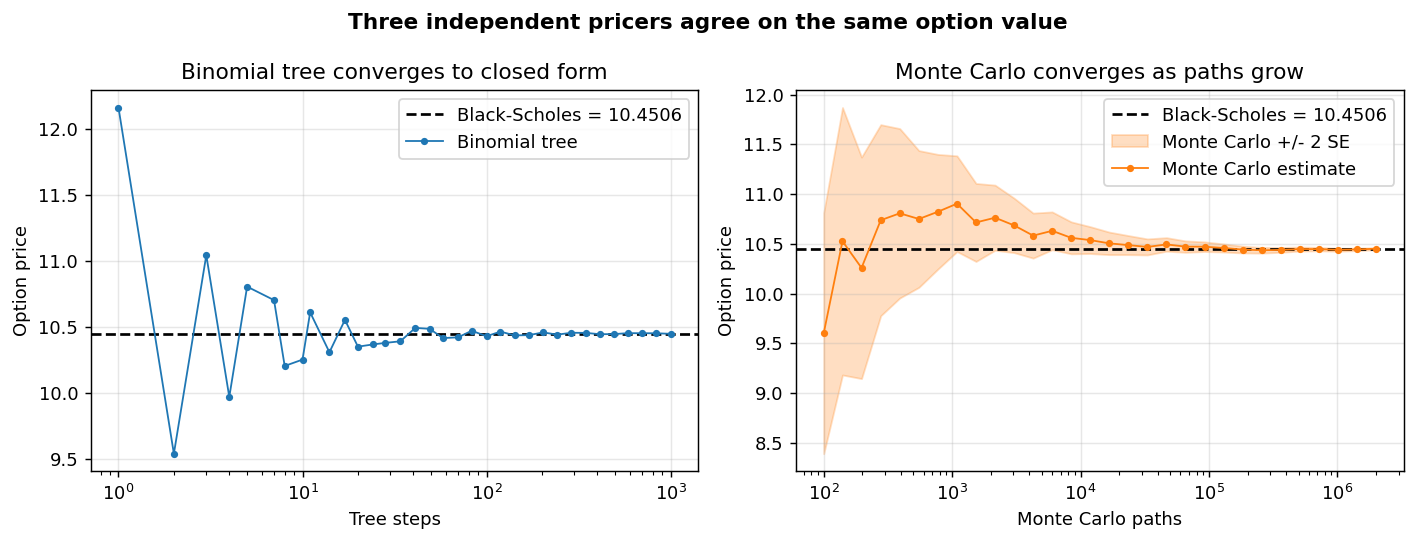
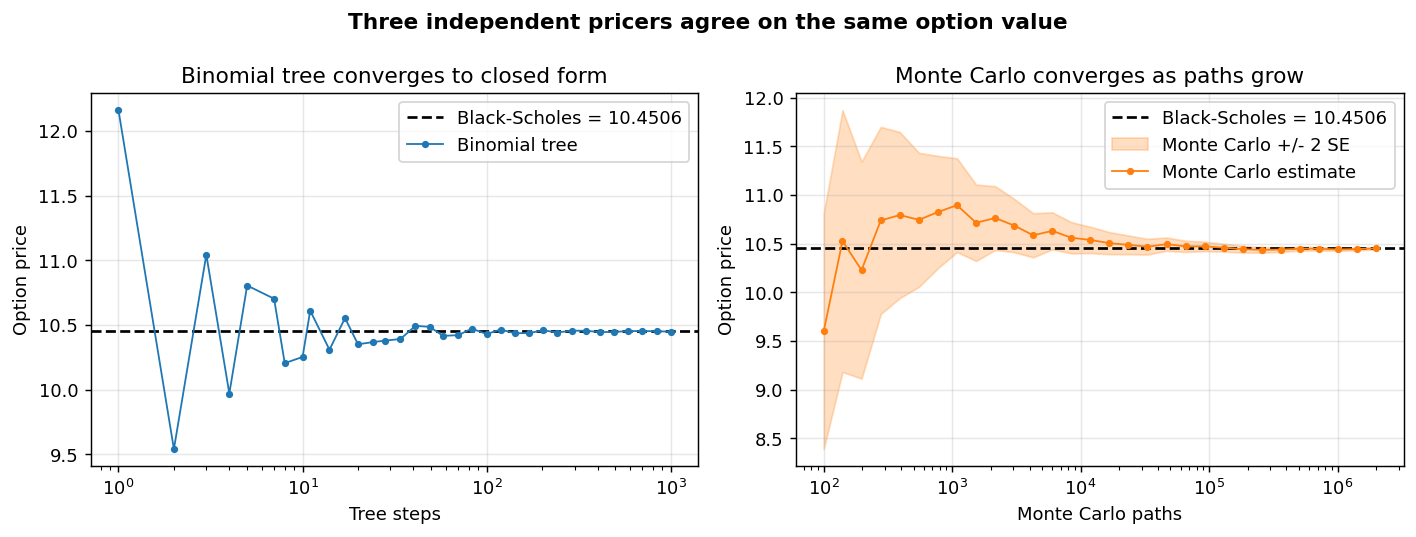
Add implied-volatility silver and latency benchmark

diff --git a/bench/benchmark.cpp b/bench/benchmark.cpp
@@ -1,0 +1,76 @@
+// Latency benchmark for the three pricers. Build in Release (-O3) for
+// meaningful numbers, then run the executable directly. Results vary by
+// machine; this backs the "fast pricing" claim with a real figure.
+#include <chrono>
+#include <cstdio>
+#include <initializer_list>
+
+#include "ope/binomial.hpp"
+#include "ope/black_scholes.hpp"
+#include "ope/implied_vol.hpp"
+#include "ope/monte_carlo.hpp"
+
+using clk = std::chrono::high_resolution_clock;
+
+int main() {
+    using namespace ope;
+    const BSInputs in{100, 100, 0.05, 0.0, 0.20, 1.0, OptionType::Call};
+
+    std::printf("Benchmark (single thread)\n");
+    std::printf("-------------------------\n");
+
+    // Black-Scholes: price + all five Greeks. `volatile` sink stops the
+    // optimiser from deleting the loop.
+    {
+        const int N = 5'000'000;
+        volatile double sink = 0.0;
+        const auto t0 = clk::now();
+        for (int i = 0; i < N; ++i) {
+            const Greeks g = black_scholes(in);
+            sink += g.price + g.delta + g.gamma + g.vega + g.theta + g.rho;
+        }
+        const auto t1 = clk::now();
+        const double ns = std::chrono::duration<double, std::nano>(t1 - t0).count() / N;
+        std::printf("Black-Scholes price + 5 Greeks : %8.1f ns/call  (%6.1f M/sec)\n",
+                    ns, 1e3 / ns);
+        (void)sink;
+    }
+
+    // Implied volatility (Newton + bisection safeguard).
+    {
+        const double mkt = black_scholes(in).price;  // recover 20% vol
+        const int N = 1'000'000;
+        volatile double sink = 0.0;
+        const auto t0 = clk::now();
+        for (int i = 0; i < N; ++i) sink += implied_vol(in, mkt).vol;
+        const auto t1 = clk::now();
+        const double ns = std::chrono::duration<double, std::nano>(t1 - t0).count() / N;
+        std::printf("Implied volatility solve       : %8.1f ns/call  (%6.1f M/sec)\n",
+                    ns, 1e3 / ns);
+        (void)sink;
+    }
+
+    // Binomial tree (American), a few step counts.
+    for (int steps : {100, 500, 1000}) {
+        const int N = 2000;
+        volatile double sink = 0.0;
+        const auto t0 = clk::now();
+        for (int i = 0; i < N; ++i) sink += binomial_price(in, steps, Exercise::American);
+        const auto t1 = clk::now();
+        const double us = std::chrono::duration<double, std::micro>(t1 - t0).count() / N;
+        std::printf("Binomial tree (American, %4d)  : %8.2f us/call\n", steps, us);
+        (void)sink;
+    }
+
+    // Monte Carlo, two path counts.
+    for (long paths : {100'000L, 1'000'000L}) {
+        const auto t0 = clk::now();
+        const MCResult r = monte_carlo_price(in, paths, true, 1);
+        const auto t1 = clk::now();
+        const double ms = std::chrono::duration<double, std::milli>(t1 - t0).count();
+        std::printf("Monte Carlo (%8ld paths)   : %8.2f ms     -> %.4f +/- %.4f\n",
+                    paths, ms, r.price, r.std_error);
+    }
+
+    return 0;
+}

diff --git a/src/implied_vol.cpp b/src/implied_vol.cpp
@@ -1,0 +1,70 @@
+#include "ope/implied_vol.hpp"
+
+#include <cmath>
+#include <limits>
+#include <numbers>
+
+#include "ope/black_scholes.hpp"
+
+namespace ope {
+
+IVResult implied_vol(const BSInputs& in, double market_price, double tol,
+                     int max_iter) {
+    const double nan = std::numeric_limits<double>::quiet_NaN();
+
+    if (in.maturity <= 0.0) {
+        return IVResult{nan, 0, false};
+    }
+
+    // Volatility is bounded to a wide but finite bracket: 0.0001% to 500%.
+    double lo = 1e-6;
+    double hi = 5.0;
+
+    BSInputs probe = in;  // we vary only the volatility
+    auto price_at = [&](double v) {
+        probe.vol = v;
+        return black_scholes(probe).price;
+    };
+
+    // Black-Scholes price is strictly increasing in volatility, so if the
+    // market price lies outside [price(lo), price(hi)] there is no solution
+    // (e.g. a quote below intrinsic value -> arbitrage).
+    if (market_price <= price_at(lo) || market_price >= price_at(hi)) {
+        return IVResult{nan, 0, false};
+    }
+
+    // Brenner-Subrahmanyam closed-form approximation as the initial guess
+    // (exact for at-the-money options, a good start elsewhere).
+    double v = std::sqrt(2.0 * std::numbers::pi / in.maturity) *
+               market_price / in.spot;
+    if (!(v > lo && v < hi)) {
+        v = 0.5 * (lo + hi);
+    }
+
+    for (int i = 1; i <= max_iter; ++i) {
+        probe.vol = v;
+        const Greeks g = black_scholes(probe);
+        const double diff = g.price - market_price;
+
+        if (std::fabs(diff) < tol) {
+            return IVResult{v, i, true};
+        }
+
+        // Keep the root bracketed: price increasing in vol, so a price that is
+        // too high means vol is too high.
+        if (diff > 0.0) hi = v; else lo = v;
+
+        // Newton step, safeguarded: fall back to bisection if vega is tiny or
+        // the Newton step would jump outside the current bracket.
+        const double v_newton = v - diff / g.vega;
+        if (!(g.vega > 1e-10) || v_newton <= lo || v_newton >= hi) {
+            v = 0.5 * (lo + hi);
+        } else {
+            v = v_newton;
+        }
+    }
+
+    return IVResult{v, max_iter, false};
+}
+
+}  // namespace ope

diff --git a/tests/test_implied_vol.cpp b/tests/test_implied_vol.cpp
@@ -1,0 +1,63 @@
+// Implied-vol solver tests: recovering a known vol from its price, across a
+// grid of strikes and vols, plus the no-solution edge case.
+#include <algorithm>
+#include <cmath>
+#include <cstdio>
+#include <cstdlib>
+#include <initializer_list>
+
+#include "ope/black_scholes.hpp"
+#include "ope/implied_vol.hpp"
+
+static int g_failures = 0;
+
+static void check(const char* name, bool ok, const char* detail) {
+    if (ok) {
+        std::printf("  ok    %-38s %s\n", name, detail);
+    } else {
+        std::printf("  FAIL  %-38s %s\n", name, detail);
+        ++g_failures;
+    }
+}
+
+int main() {
+    using namespace ope;
+    char buf[256];
+
+    // Round-trip: price an option at a known vol, then recover that vol from
+    // the price. Sweep strikes (ITM/ATM/OTM) and several true vols.
+    double worst = 0.0;
+    int worst_iters = 0;
+    for (double K : {70.0, 90.0, 100.0, 110.0, 140.0}) {
+        for (double true_vol : {0.10, 0.20, 0.35, 0.60}) {
+            for (OptionType t : {OptionType::Call, OptionType::Put}) {
+                BSInputs in{100, K, 0.05, 0.0, true_vol, 1.0, t};
+                const double mkt = black_scholes(in).price;
+                const IVResult iv = implied_vol(in, mkt);
+                if (iv.converged) {
+                    worst = std::max(worst, std::fabs(iv.vol - true_vol));
+                    worst_iters = std::max(worst_iters, iv.iterations);
+                } else {
+                    worst = 1e9;  // force a failure if anything did not converge
+                }
+            }
+        }
+    }
+    std::snprintf(buf, sizeof(buf), "max vol error=%.2e, max iters=%d", worst, worst_iters);
+    check("Round-trip recovers true vol", worst < 1e-6, buf);
+
+    // A price strictly below intrinsic value has no valid implied vol.
+    {
+        BSInputs in{100, 80, 0.05, 0.0, 0.20, 1.0, OptionType::Call};
+        const IVResult iv = implied_vol(in, 5.0);  // intrinsic ~ 20, so 5 is impossible
+        std::snprintf(buf, sizeof(buf), "converged=%d vol=%.4f", iv.converged, iv.vol);
+        check("Below-intrinsic price -> no solution", !iv.converged && std::isnan(iv.vol), buf);
+    }
+
+    if (g_failures == 0) {
+        std::printf("\nAll implied-vol tests passed.\n");
+        return EXIT_SUCCESS;
+    }
+    std::printf("\n%d test(s) FAILED.\n", g_failures);
+    return EXIT_FAILURE;
+}

diff --git a/include/ope/implied_vol.hpp b/include/ope/implied_vol.hpp
@@ -1,0 +1,21 @@
+#pragma once
+
+#include "ope/types.hpp"
+
+namespace ope {
+
+struct IVResult {
+    double vol;        // implied volatility (NaN if no solution exists)
+    int iterations;    // iterations used
+    bool converged;    // whether it reached the tolerance
+};
+
+// Recover the Black-Scholes implied volatility that reproduces `market_price`
+// for the given contract. Uses Newton-Raphson driven by vega, safeguarded by
+// a bisection step whenever Newton would leave the no-arbitrage bracket or
+// vega is too small to trust (deep in/out of the money). The `vol` field of
+// `in` is ignored; it is the unknown being solved for.
+IVResult implied_vol(const BSInputs& in, double market_price,
+                     double tol = 1e-8, int max_iter = 100);
+
+}  // namespace ope

diff --git a/bindings/bindings.cpp b/bindings/bindings.cpp
@@ -2,6 +2,7 @@
 
 #include "ope/binomial.hpp"
 #include "ope/black_scholes.hpp"
+#include "ope/implied_vol.hpp"
 #include "ope/monte_carlo.hpp"
 
 namespace py = pybind11;
@@ -70,4 +71,18 @@ PYBIND11_MODULE(ope, m) {
           py::arg("num_paths"), py::arg("antithetic") = true,
           py::arg("seed") = 42UL,
           "Monte Carlo price (European) with optional antithetic variates.");
+
+    py::class_<ope::IVResult>(m, "IVResult")
+        .def_readonly("vol", &ope::IVResult::vol)
+        .def_readonly("iterations", &ope::IVResult::iterations)
+        .def_readonly("converged", &ope::IVResult::converged)
+        .def("__repr__", [](const ope::IVResult& r) {
+            return "<IVResult vol=" + std::to_string(r.vol) +
+                   " iterations=" + std::to_string(r.iterations) +
+                   " converged=" + std::string(r.converged ? "True" : "False") + ">";
+        });
+
+    m.def("implied_vol", &ope::implied_vol, py::arg("inputs"),
+          py::arg("market_price"), py::arg("tol") = 1e-8, py::arg("max_iter") = 100,
+          "Solve for Black-Scholes implied volatility (safeguarded Newton).");
 }

diff --git a/README.md b/README.md
@@ -17,8 +17,10 @@ layer).
 | Binomial tree pricer (European + American) | done |
 | Monte Carlo pricer (antithetic variance reduction) | done |
 | Three-method convergence test | done |
-| Implied-volatility solver | planned |
-| Latency benchmarks + vol-surface plots | planned |
+| Implied-volatility solver (safeguarded Newton) | done |
+| Latency benchmark | done |
+| CI (GitHub Actions) | planned |
+| Volatility-surface plots | planned |
 
 ## The model
 
@@ -61,6 +63,35 @@ an American put is worth strictly more than the European put (the early-exercise
 premium), while an American call on a non-dividend stock equals the European
 call.
 
+## Implied volatility
+
+Given a market price, the engine solves for the volatility that reproduces it
+under Black-Scholes. The solver is Newton-Raphson driven by vega, but
+safeguarded: at every step it keeps the root inside a no-arbitrage bracket and
+falls back to a bisection step whenever a Newton step would jump outside that
+bracket or vega is too small to trust (which happens deep in or out of the
+money, exactly where naive Newton-Raphson diverges). Prices below intrinsic
+value are rejected as having no solution. A round-trip test recovers the input
+volatility across a grid of strikes and vols to better than `1e-6`, typically
+in three or four iterations.
+
+## Performance
+
+`bench/benchmark.cpp` times each pricer. Numbers are machine-specific; run it
+yourself with `./build/benchmark`. As a rough reference on a laptop (Release,
+`-O3`, single thread):
+
+```
+Black-Scholes price + 5 Greeks :   ~50 ns/call   (tens of millions/sec)
+Implied volatility solve       :  ~370 ns/call
+Binomial tree (American, 1000) :   tens of ms/call
+Monte Carlo (1,000,000 paths)  :   tens of ms
+```
+
+The analytical closed form prices an option and all five Greeks in roughly the
+time of a few dozen floating-point operations, which is what makes it suitable
+for real-time use.
+
 ## Layout
 
 ```
@@ -68,13 +99,16 @@ include/ope/types.hpp           shared types (inputs, option type, exercise styl
 include/ope/black_scholes.hpp   closed-form interface + Greeks
 include/ope/binomial.hpp        binomial tree interface
 include/ope/monte_carlo.hpp     Monte Carlo interface
+include/ope/implied_vol.hpp     implied-volatility solver interface
 src/                            implementations
 bindings/bindings.cpp           pybind11 module definition
+bench/benchmark.cpp             latency benchmark for each pricer
 tests/test_black_scholes.cpp    closed-form references + put-call parity
 tests/test_convergence.cpp      tree/MC convergence + American-option checks
+tests/test_implied_vol.cpp      implied-vol round-trip + no-solution edge case
 python/validate.py              cross-check vs independent SciPy reference
 python/convergence.py           generates the convergence chart above
-CMakeLists.txt                  build for lib, tests, and Python module
+CMakeLists.txt                  build for lib, tests, benchmark, Python module
 ```
 
 ## Build
@@ -111,10 +145,16 @@ print(ope.binomial_price(inp, steps=1000, exercise=ope.Exercise.American))
 # Monte Carlo with standard error
 mc = ope.monte_carlo_price(inp, num_paths=1_000_000)
 print(mc.price, mc.std_error)
+
+# Implied volatility from a market price
+price = ope.black_scholes(inp).price
+iv = ope.implied_vol(inp, price)
+print(iv.vol, iv.iterations, iv.converged)
 ```
 
-Regenerate the convergence chart with:
+Regenerate the convergence chart, and run the benchmark, with:
 
 ```bash
 PYTHONPATH=build python python/convergence.py
+./build/benchmark
 ```